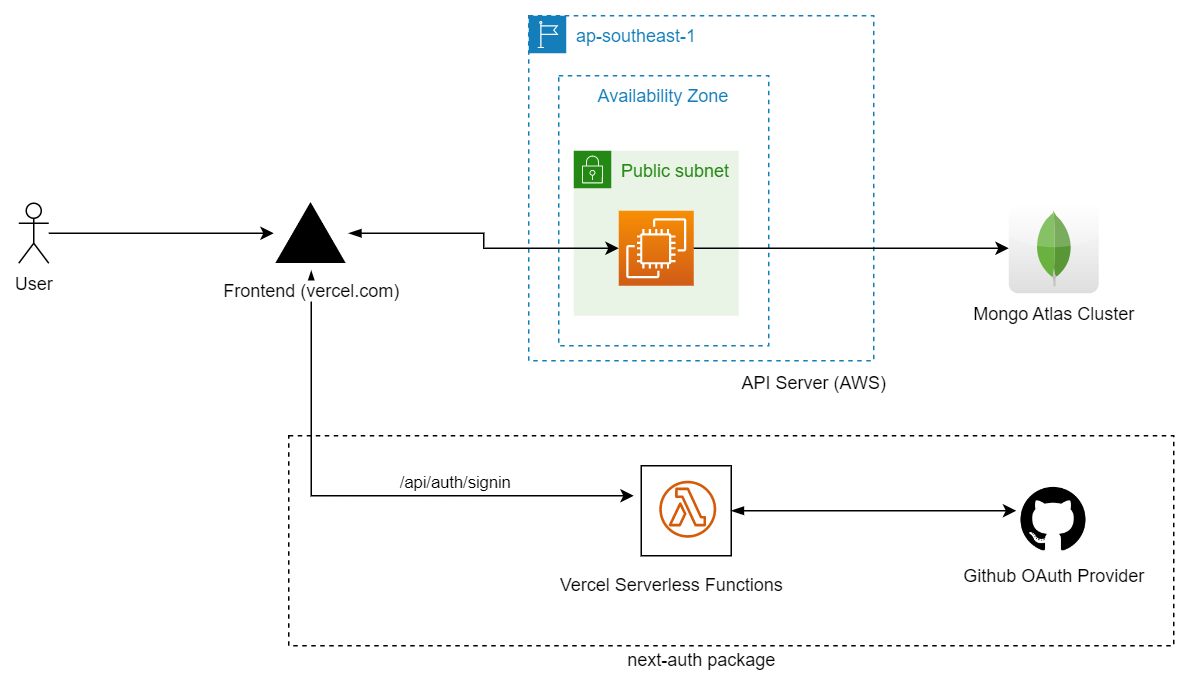
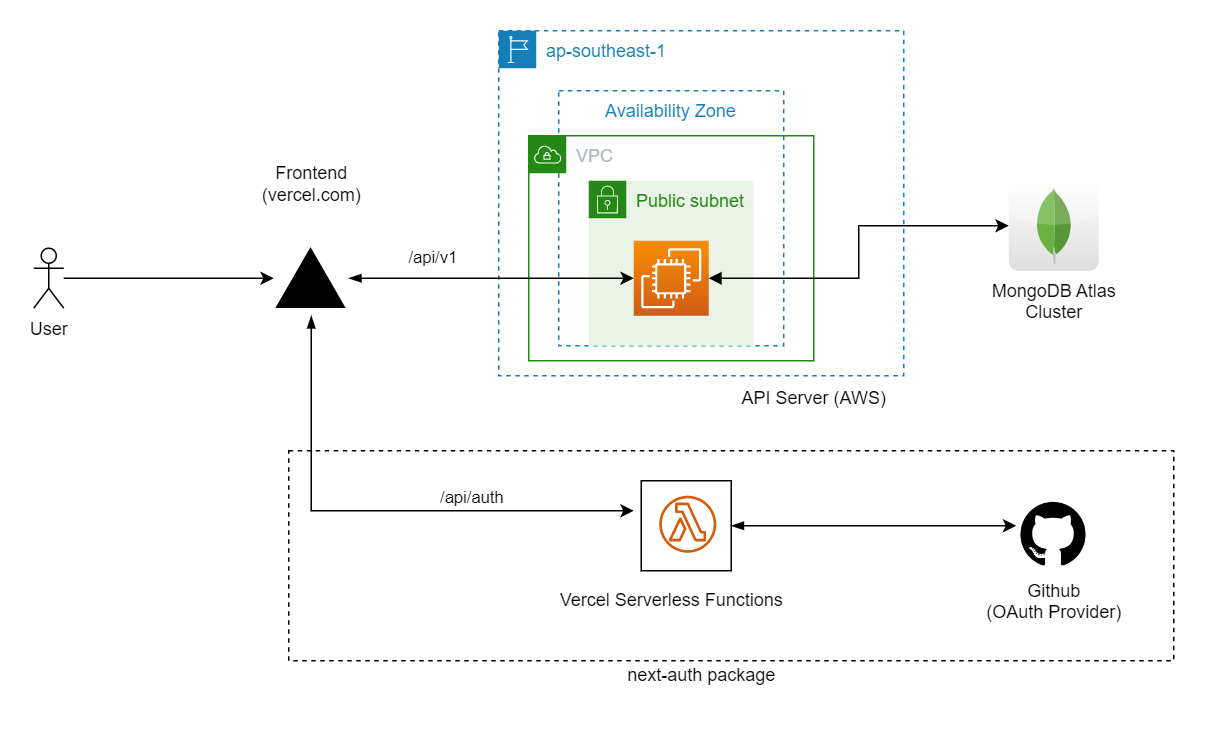
architecture diagram updated.

diff --git a/README.md b/README.md
@@ -17,34 +17,37 @@
 
 ## Features
 - ### API
+  - **Typescript**: static typing using typescript
   - **JWT authentication** /  **OAuth2**  support
   - **Error handling**: centralized error handling mechanism
   - **Request Validation** : [express-validator](https://github.com/express-validator/express-validator)
   - **Logging**: using [winston](https://github.com/winstonjs/winston) and [morgan](https://github.com/expressjs/morgan)
+  - **Testing**: unit and integration tests using [Jest](https://jestjs.io)
   - **Hot Reloading**: with [concurrently](https://github.com/open-cli-tools/concurrently)
   - **Environment variables**: using [dotenv](https://github.com/motdotla/dotenv)
   - **Security**: set security HTTP headers using [helmet](https://helmetjs.github.io)
   - **CORS**: Cross-Origin Resource-Sharing enabled using [cors](https://github.com/expressjs/cors)
-  - **CI**: continuous integration with [GitHub CI](https://travis-ci.org)
+  - **CI**: continuous integration with [GitHub Actions](https://github.com/features/actions)
   - **API documentation**: with [swagger-jsdoc](https://github.com/Surnet/swagger-jsdoc) and [swagger-ui-express](https://github.com/scottie1984/swagger-ui-express)  
     - available at `/api/v1/docs` endpoint
   - **Docker support**
+  - **Linting**: with [ESLint](https://eslint.org) and [Prettier](https://prettier.io)
 
 - ### Web
   - **Latest** Features with up-to-date Next.js Version
   - **Authentication** :  with [Next-Auth](https://github.com/nextauthjs/next-auth)
-  - **Tailwind CSS** Support
+  - **Tailwind CSS**: [Tailwind CSS](https://tailwindcss.com/) support
   - **MUI** Components
-  - **Redux** State Management
+  - **Redux** State Management : using [Redux Tool Kit](https://redux-toolkit.js.org/) 
   - **Logs & Error Handling** : using [Sentry](https://sentry.io/). 
-    - To configure, create a sentry project add `SENTRY_DSN` `SENTRY_AUTH_TOKEN` as environment variables in apps/web/.env
+    - To configure, create a sentry project add `SENTRY_DSN` `SENTRY_AUTH_TOKEN` as environment variables in **apps/web/.env**
 
 ## Architecture
 
 ### Apps and Packages
 
-- [`apps/api`](./apps/api): a [Express.js](https://expressjs.com/) app
-- [`apps/web`](./apps/web): a [Next.js](https://nextjs.org/) app
+- [`apps/api`](./apps/api): a [Express.js](https://expressjs.com/) app (API)
+- [`apps/web`](./apps/web): a [Next.js](https://nextjs.org/) app (Frontend)
 - [`packages`](./packages)
   - `eslint-config-custom`: custom `eslint` config used throughout the monorepo
   - `tsconfig`: `tsconfig.json`s used throughout the monorepo
@@ -58,19 +61,26 @@ npm install
 ```
 
 2. Environment Variables
-  - Add `.env` file on the **root** and add `MongoDB Connection String/URL` as Environment Variable
+  - Add `.env` file on the **root** directory and add `MongoDB Connection String/Url` as Environment Variable
 
-  ```shell
+  ```bash
+  # required
   MONGODB_URL=mongodb+srv://...
+
+  # production only
+  WEBAPP_URL=http://example.com
   ```
   - Add `.env.local` on **apps/web** directory and add following.
 
-  ```.env
+  ```bash
+  # required
   GITHUB_ID=
   GITHUB_SECRET=
   NEXTAUTH_SECRET=secret
   NEXTAUTH_URL=http://localhost:3000
-  NEXT_PUBLIC_API_BASE_URL=http://localhost:8080/api/v1
+
+  # production only
+  NEXT_PUBLIC_API_BASE_URL=http://example.com/api/v1
   ```
 
 3. To develop all apps and packages, run the following command:
@@ -133,6 +143,14 @@ To build all apps and packages, run the following command:
 npm run build
 ```
 
+## Production
+
+To run apps in production:
+
+```
+npm start
+```
+
 ## TODO
 - [x] Add JWT token authentication 
 - [ ] Add Refresh token support on frontend
@@ -145,3 +163,7 @@ npm run build
 - [Sentry](https://sentry.io/) - Centralized Error and Log handling.
 - [Express.js](https://expressjs.com/) - Express.js
 - [Next.js](https://nextjs.org/) - Next.js
+
+## License
+
+[MIT](LICENSE)
